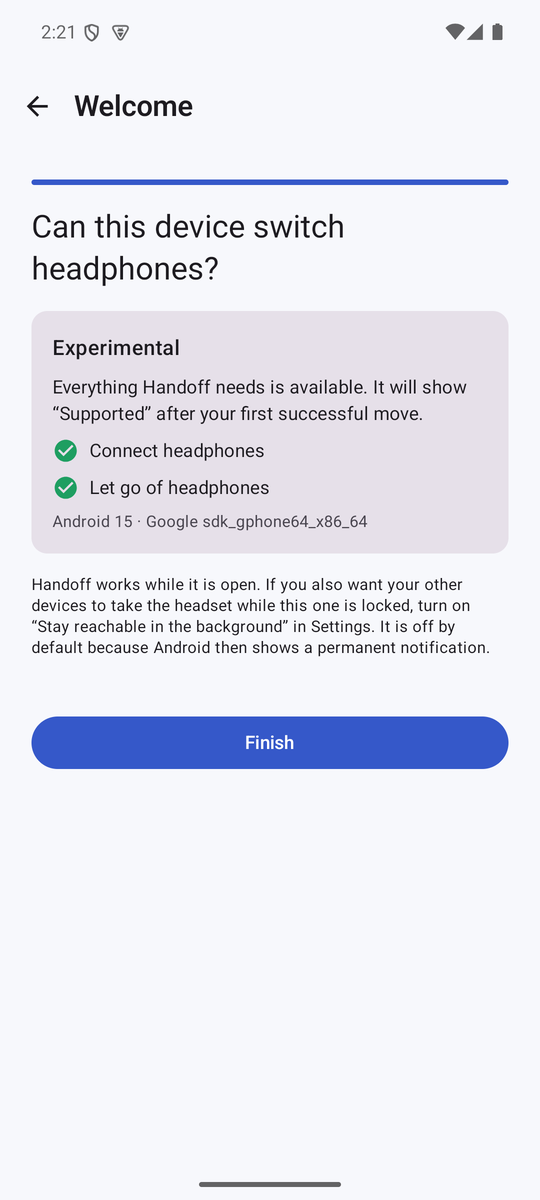
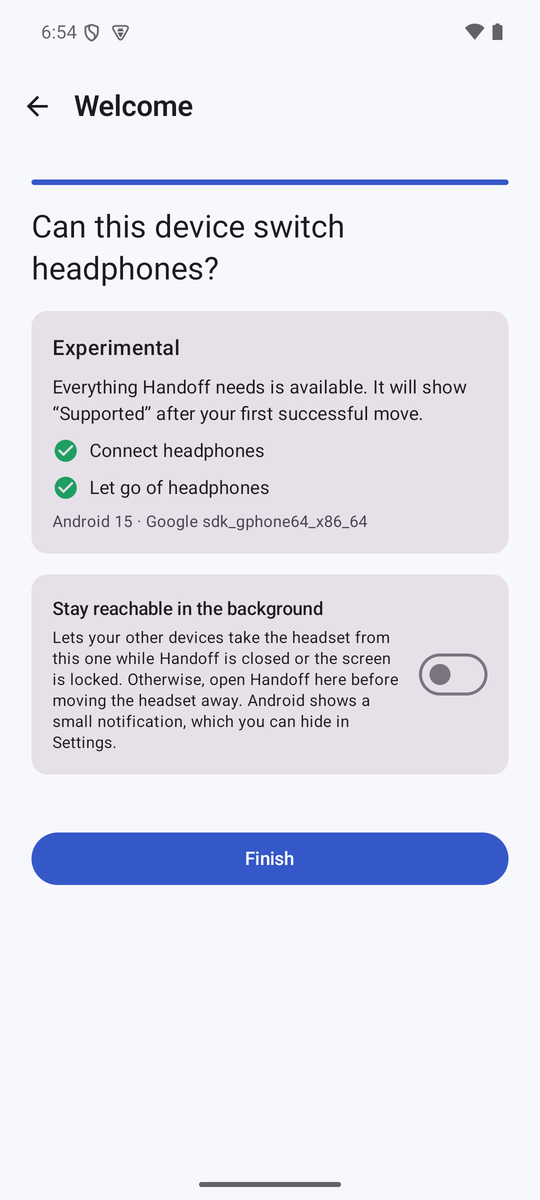
Handoff 0.5.3: background mode choice in setup, clearer advice when a device can't be reached

diff --git a/app/src/main/kotlin/dev/handoff/app/feature/setup/SetupScreen.kt b/app/src/main/kotlin/dev/handoff/app/feature/setup/SetupScreen.kt
@@ -1,5 +1,7 @@
 package dev.handoff.app.feature.setup
 
+import androidx.compose.material3.Switch
+import androidx.compose.foundation.layout.width
 import dev.handoff.core.bluetooth.CompatibilityLevel
 import dev.handoff.core.bluetooth.MethodAvailability
 import androidx.compose.material.icons.Icons
@@ -64,6 +66,8 @@ import org.koin.androidx.compose.koinViewModel
 data class SetupState(
     val step: Int = 0,
     val bluetoothGranted: Boolean = false,
+    /** Chosen on the last setup step; off unless the user switches it on. */
+    val stayReachable: Boolean = false,
     val name: String = "",
 )
 
@@ -96,11 +100,13 @@ class SetupViewModel(
     fun next() = _state.update { it.copy(step = it.step + 1) }
     fun back() = _state.update { it.copy(step = (it.step - 1).coerceAtLeast(0)) }
     fun setName(name: String) = _state.update { it.copy(name = name) }
+    fun setStayReachable(on: Boolean) = _state.update { it.copy(stayReachable = on) }
 
     fun finish(onDone: () -> Unit) {
         viewModelScope.launch {
             identity.rename(_state.value.name)
             settings.setOnboardingComplete(true)
+            if (_state.value.stayReachable) settings.setBackgroundEnabled(true)
             if (settings.current().backgroundEnabled) HandoffService.start(context)
             onDone()
         }
@@ -208,12 +214,21 @@ fun SetupScreen(onDone: () -> Unit, vm: SetupViewModel = koinViewModel()) {
                             )
                         }
                     }
-                    Text(
-                        "Handoff works while it is open. If you also want your other devices to take the headset while this " +
-                            "one is locked, turn on “Stay reachable in the background” in Settings. It is off by default because " +
-                            "Android then shows a permanent notification.",
-                        style = MaterialTheme.typography.bodySmall,
-                    )
+                    Card {
+                        Row(Modifier.padding(16.dp), verticalAlignment = Alignment.CenterVertically) {
+                            Column(Modifier.weight(1f), verticalArrangement = Arrangement.spacedBy(4.dp)) {
+                                Text("Stay reachable in the background", style = MaterialTheme.typography.titleSmall)
+                                Text(
+                                    "Lets your other devices take the headset from this one while Handoff is closed or the " +
+                                        "screen is locked. Otherwise, open Handoff here before moving the headset away. " +
+                                        "Android shows a small notification, which you can hide in Settings.",
+                                    style = MaterialTheme.typography.bodySmall,
+                                )
+                            }
+                            Spacer(Modifier.width(12.dp))
+                            Switch(checked = state.stayReachable, onCheckedChange = vm::setStayReachable)
+                        }
+                    }
                     Spacer(Modifier.height(8.dp))
                     Button(onClick = { vm.finish(onDone) }, modifier = Modifier.fillMaxWidth()) { Text("Finish") }
                 }

diff --git a/core/src/main/kotlin/dev/handoff/core/text/HandoffTexts.kt b/core/src/main/kotlin/dev/handoff/core/text/HandoffTexts.kt
@@ -74,8 +74,9 @@ object HandoffTexts {
 
     fun failureHelp(reason: FailureReason, detail: String?): String = when (reason) {
         FailureReason.OWNER_UNREACHABLE ->
-            "${detail ?: "It"} may be on a different Wi-Fi, asleep, or not running Handoff, and the headset is probably still " +
-                "connected to it. Put both devices on the same network, or disconnect the headset there."
+            "The headset is probably still connected to ${detail ?: "the other device"}. Open Handoff there (or turn on " +
+                "Stay reachable in the background on it), and make sure both devices are on the same Wi-Fi. Or disconnect " +
+                "the headset there yourself."
         FailureReason.OWNER_REFUSED ->
             (detail?.let { "$it. " } ?: "") + "Disconnect the headset in that device's Bluetooth settings, then try again."
         FailureReason.PEER_NOT_LINKED ->

diff --git a/docs/GETTING_STARTED.md b/docs/GETTING_STARTED.md
@@ -57,6 +57,7 @@ Pair your headphones with each device the usual way, in its Bluetooth settings. 
    - **Supported:** Handoff has already moved headphones on this device.
    - **Experimental:** everything Handoff needs is available. It changes to Supported after your first successful move.
    - **Not supported on this device:** your phone maker doesn't let apps connect headphones. Your other devices can still take the headphones from it.
+5. Choose whether Handoff should **stay reachable in the background**. Switched on, your other devices can take the headphones from this one even when Handoff is closed or the screen is locked. Switched off, open Handoff on this device before moving the headphones away from it. You can change this later in Settings; see [Running in the background](#running-in-the-background-android).
 
 **On Windows**, there's nothing to set up. Your PC appears under its own name, which you can change in **Settings**.
 
@@ -197,7 +198,7 @@ If a move doesn't work, Handoff tries once more by itself. If it still can't fin
 
 | Handoff says | What to do |
 |---|---|
-| **Couldn't reach …** or **On another network** | Make sure the other device is on, on the same Wi-Fi as this one, and running Handoff. No shared Wi-Fi? Use a hotspot. |
+| **Couldn't reach …** or **On another network** | Open Handoff on the other device, or turn on **Stay reachable in the background** there. Make sure both devices are on the same Wi-Fi. No shared Wi-Fi? Use a hotspot. |
 | **The other device couldn't let go** | Disconnect the headphones on that device yourself, then tap **Move here** again. |
 | **… doesn't recognise this device** | The link only exists on one of the two devices. In **My devices**, unlink the other device and link them again. If an older copy of Handoff is installed on either device, uninstall it first. |
 | **The headset didn't connect** | Check that your headphones are on, charged and close by, and not connected to a device without Handoff. |

diff --git a/docs/releases/v0.5.3.md b/docs/releases/v0.5.3.md
@@ -1,0 +1,24 @@
+## What's changed
+
+- **Choose background mode during setup.** The last setup step on Android now has a **Stay reachable in the background** switch. Turn it on so your other devices can take the headphones from this one even when Handoff is closed or the screen is locked. It stays off unless you switch it on.
+- **Clearer advice when another device can't be reached.** The message now tells you to open Handoff on that device, or to turn on background mode there.
+
+## Which file do I need?
+
+| Your device | Download |
+|---|---|
+| Android phone or tablet (Android 12 or newer) | **Handoff-0.5.3.apk** |
+| Windows 10 or 11 PC | **Handoff-0.5.3-setup.exe** (recommended) or **Handoff-0.5.3.msi** |
+| Windows, without installing anything | **Handoff-0.5.3-windows-portable.zip**: unzip it and run `Handoff.exe` |
+
+**Already using Handoff?** Open **Settings → Check for updates** (Android) or **Check now** (Windows) and choose **Download and install**. Your linked devices and headphones stay as they are. If you installed Handoff before this version, check **Settings → Stay reachable in the background** on each phone and tablet.
+
+New to Handoff? The [getting started guide](https://github.com/FancyCorey/handoff/blob/main/docs/GETTING_STARTED.md) walks through setup step by step.
+
+## Good to know
+
+- **Android** asks you to allow installing apps from your browser or file manager the first time you open the APK.
+- **Windows** may warn "Windows protected your PC" because Handoff isn't code-signed yet. Choose **More info → Run anyway**. On PCs with *Smart App Control* switched on, Windows doesn't offer that option yet.
+- `SHA256SUMS.txt` lists the fingerprint of every file, so you can check a download hasn't been altered.
+
+Found a problem or have an idea? [Open an issue](https://github.com/FancyCorey/handoff/issues).
